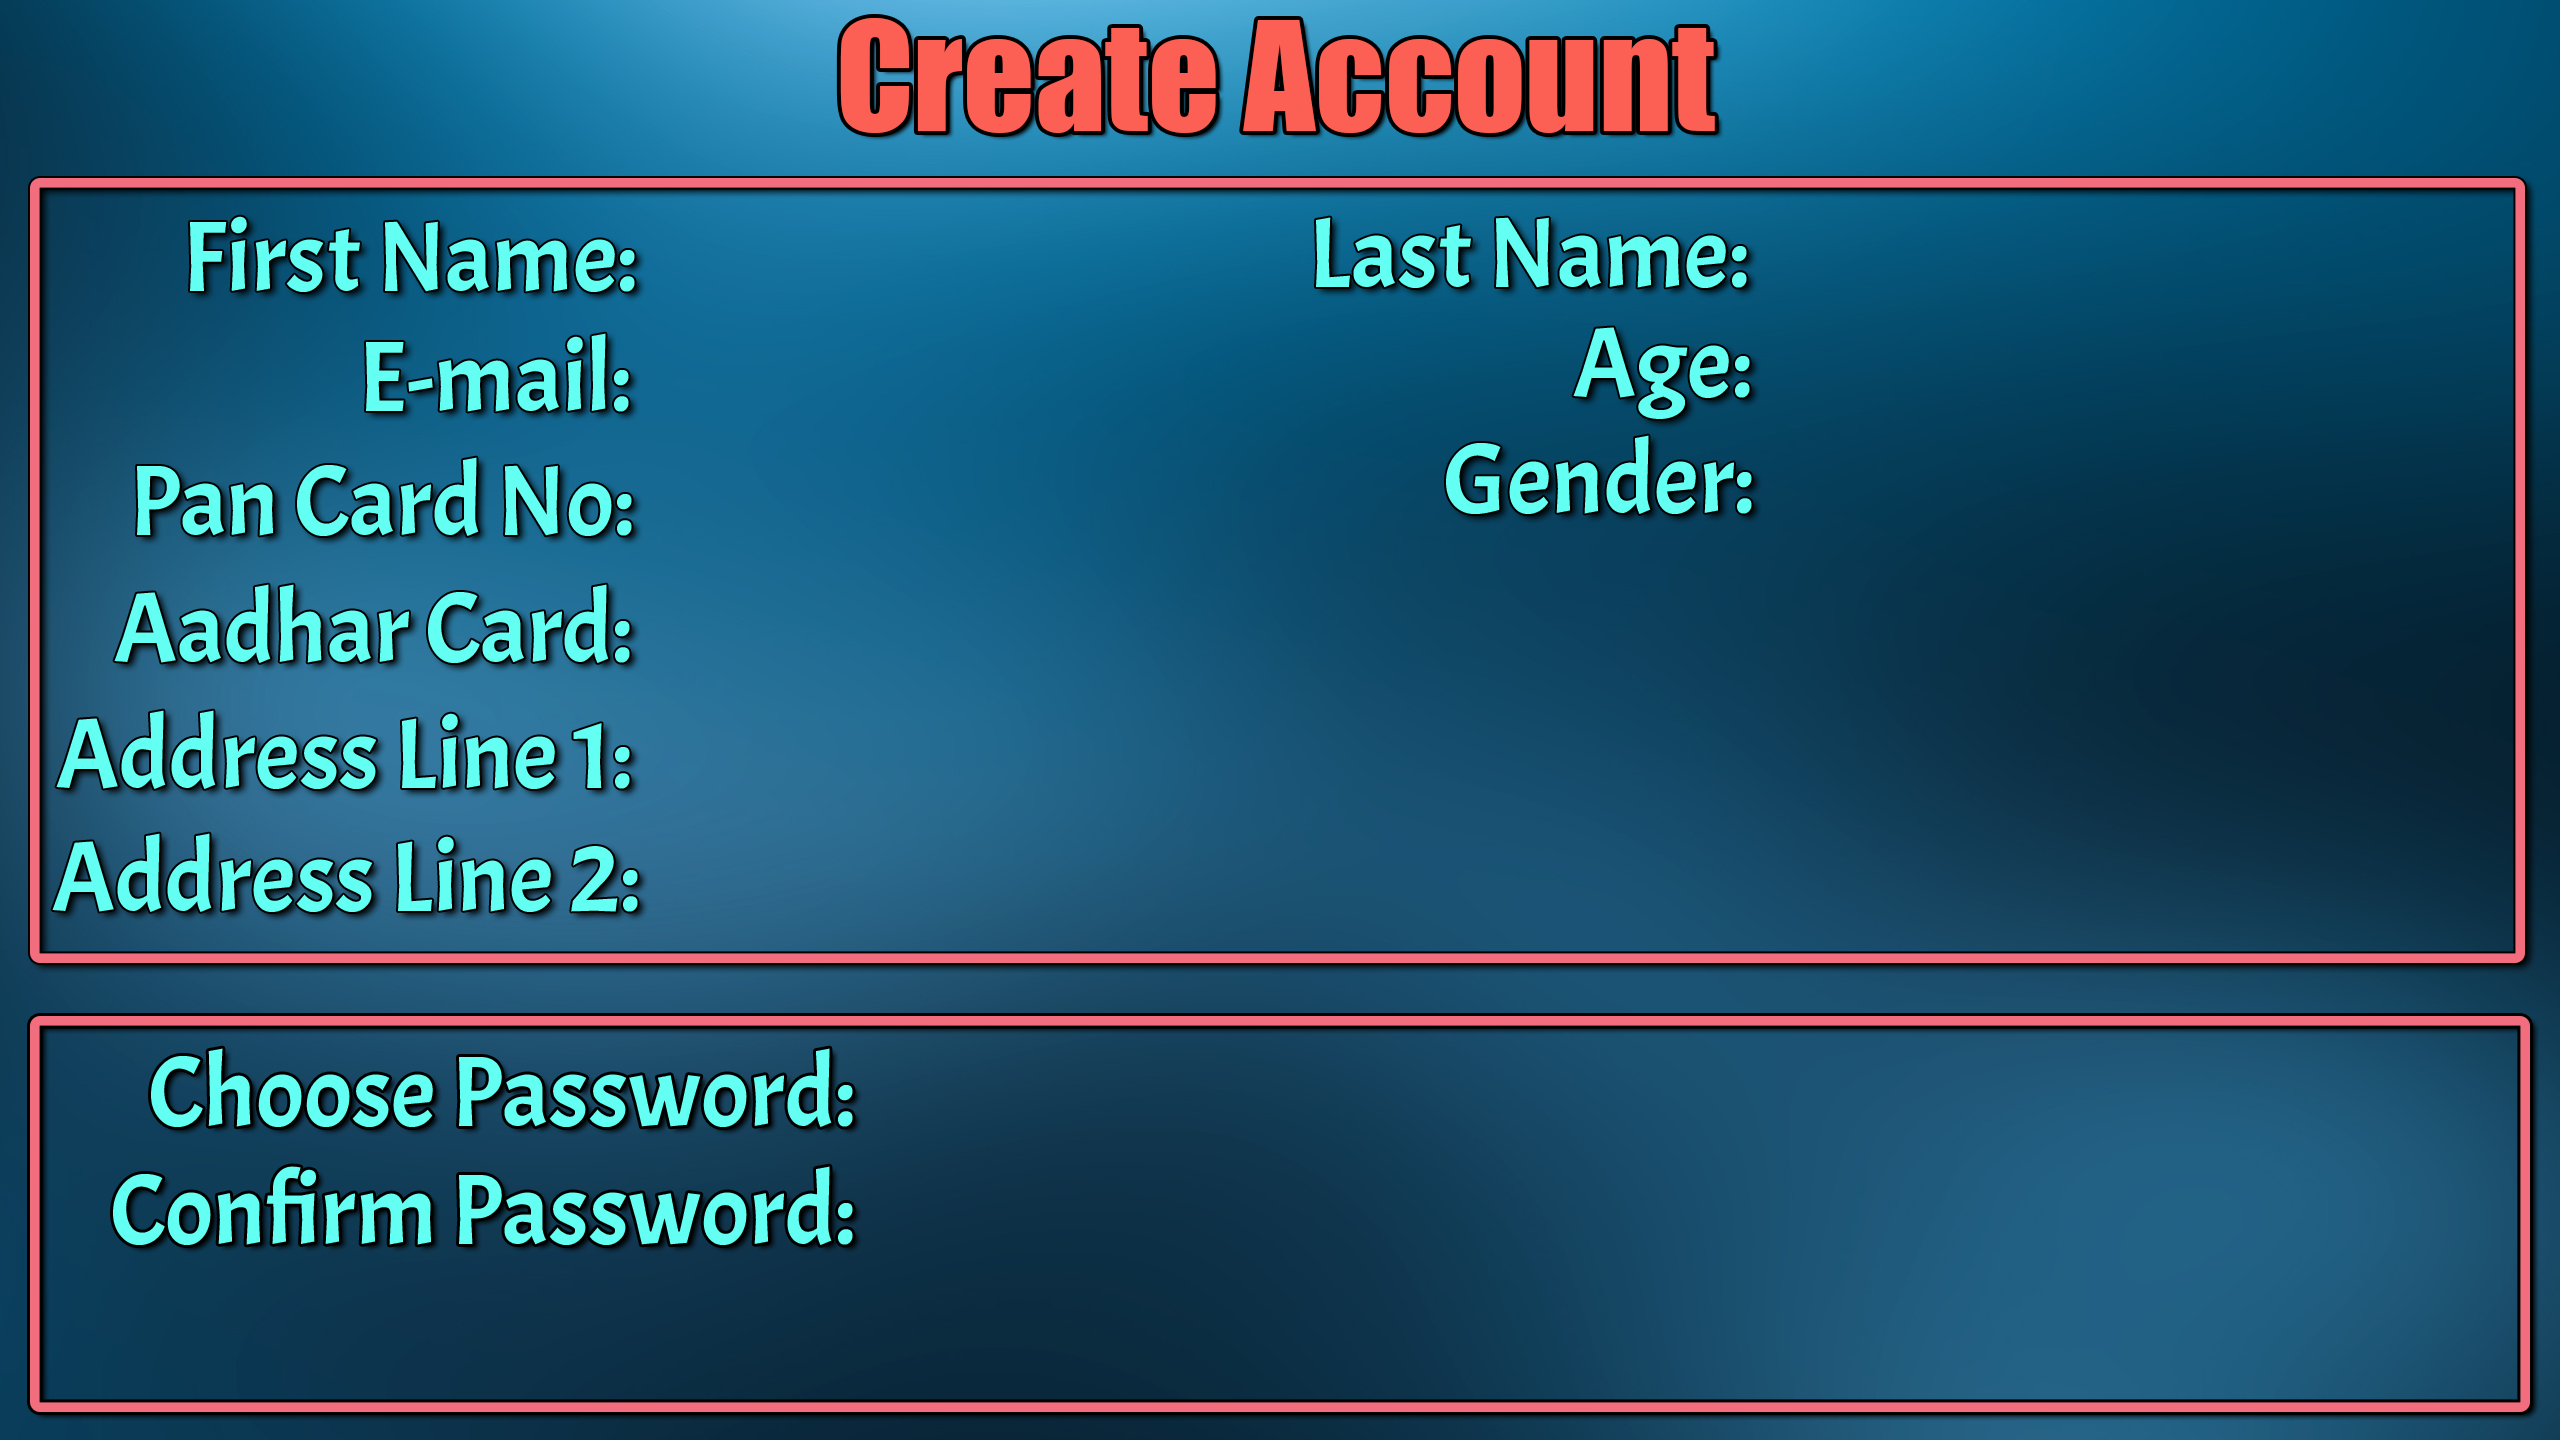
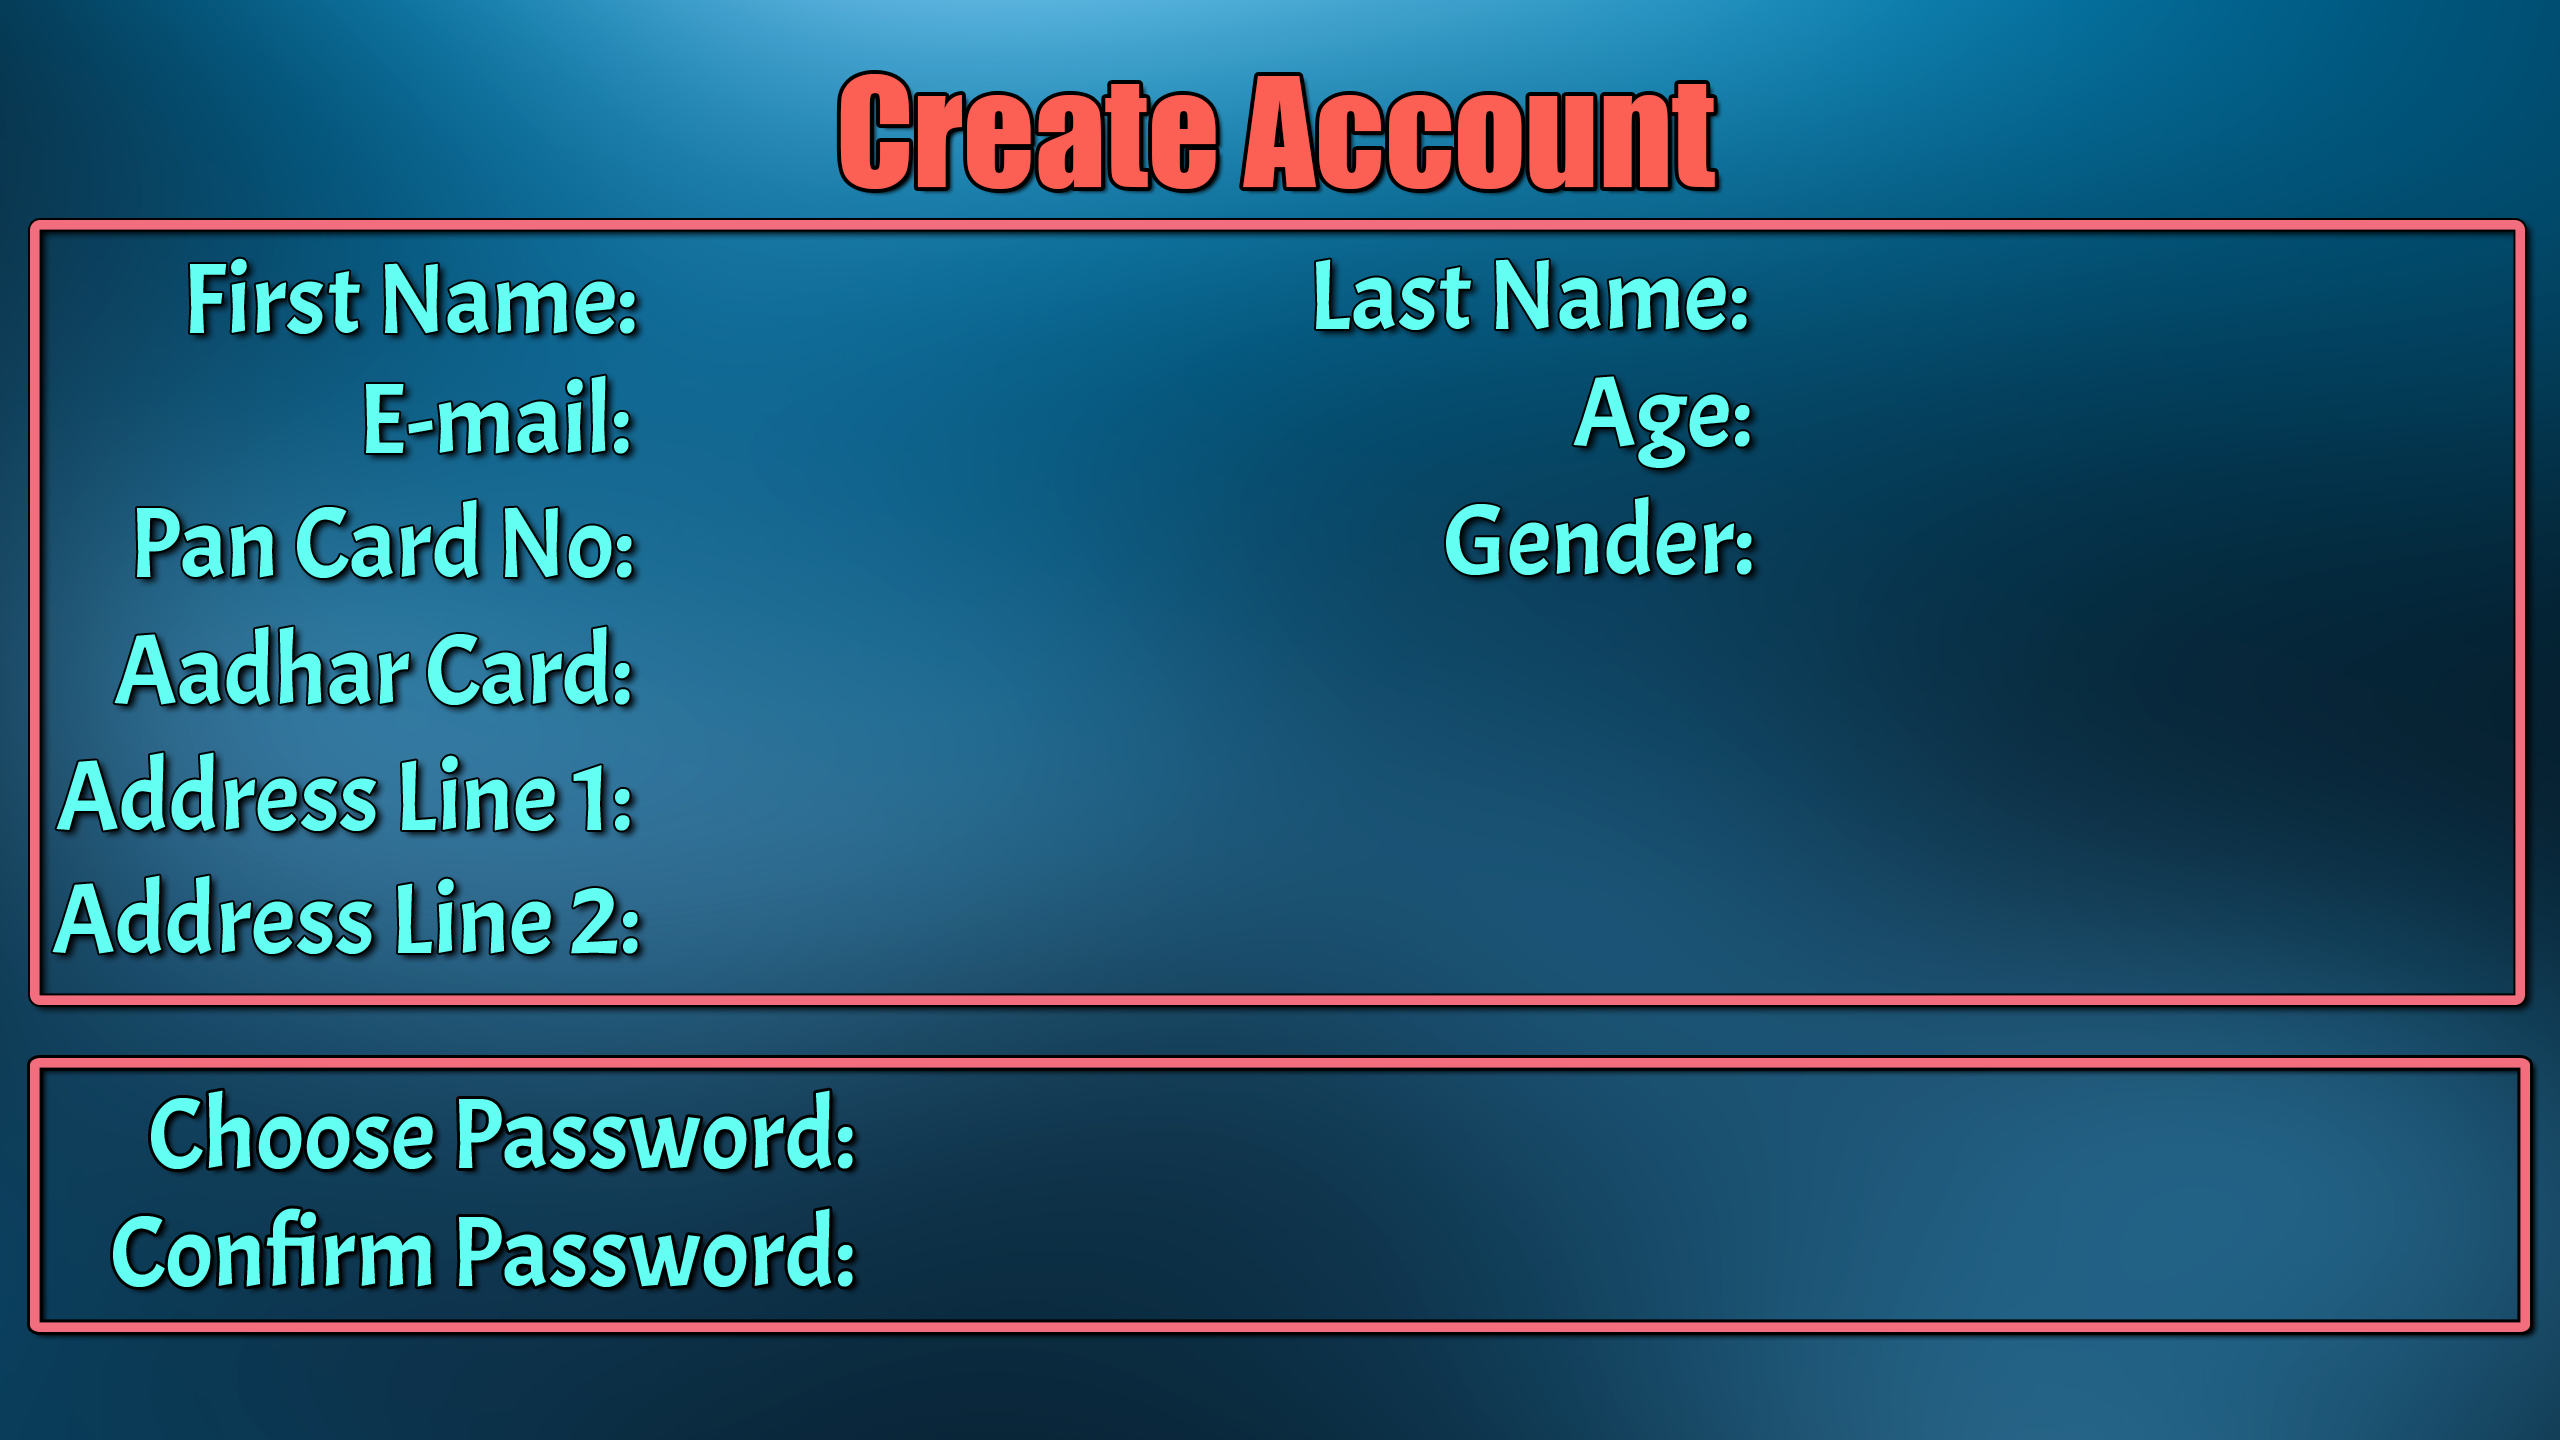
new bg create account

Changed region(s): [[0.0, 0.0, 1.0, 1.0]]

diff --git a/main.py b/main.py
@@ -40,7 +40,46 @@ def create_login():
     if not found:
         status.configure(text="Username doesn't exist!", fg="#FF0000")
 
-def create_acc():
+def submit_data():
+    login_field.place_forget()
+    password_field.place_forget()
+    submit_login.place_forget()
+    submit_create.place_forget()
+    status.place_forget()
+
+    dashbg = Image.open("data/images/create_account.png")
+    dashbg = dashbg.resize(root.wm_maxsize())
+    root.bgimg = ImageTk.PhotoImage(dashbg)
+    bg_canvas.itemconfig(root.rootbgimage, image=root.bgimg)
+
+    fname = Entry(root, width=x(20), font=("Helvetica", 22))
+    fname.place(x=x(400), y=y(164))
+    lname = Entry(root, width=x(20), font=("Helvetica", 22))
+    lname.place(x=x(1060), y=y(164))
+    email = Entry(root, width=x(25), font=("Helvetica", 22))
+    email.place(x=x(400), y=y(238))
+    age = Entry(root, width=x(5), font=("Helvetica", 22))
+    age.place(x=x(1060), y=y(238))
+    pan = Entry(root, width=x(25), font=("Helvetica", 22))
+    pan.place(x=x(400), y=y(312))
+    gender = Entry(root, width=x(5), font=("Helvetica", 22))
+    gender.place(x=x(1060), y=y(312))
+    aadhar = Entry(root, width=x(25), font=("Helvetica", 22))
+    aadhar.place(x=x(400), y=y(386))
+    add1 = Entry(root, width=x(30), font=("Helvetica", 22))
+    add1.place(x=x(400), y=y(460))
+    add2 = Entry(root, width=x(30), font=("Helvetica", 22))
+    add2.place(x=x(400), y=y(534))
+    pswd = Entry(root, width=x(25), font=("Helvetica", 22), show="*")
+    pswd.place(x=x(540), y=y(662))
+    cpswd = Entry(root, width=x(25), font=("Helvetica", 22), show="*")
+    cpswd.place(x=x(540), y=y(736))
+
+    final = Button(root, text="Open Account", font=("Arial", 22), width=x(14), bg="#37FF4E")
+    final.place(x=x(1030), y=y(690))
+    cancel = Button(root, text="Cancel", font=("Arial", 22), width=x(11), bg="#FF4E3F")
+    cancel.place(x=x(1290), y=y(690))
+    return
     usen = input('Pls enter a username: ')
     pas = input('Pls enter a password: ')
     email = input('Pls enter your email: ')
@@ -55,13 +94,6 @@ def create_acc():
     with open('data/accounts.json', 'w') as file:
         file.write(root.accountsdata)
 
-
-def submit_data():
-    login_field.place_forget()
-    password_field.place_forget()
-    submit_login.place_forget()
-    submit_create.place_forget()
-    status.place_forget()
 
 def restore_root():
     if root.fs:
@@ -148,12 +180,12 @@ with open("data/data.json", "r") as f:
     root.data = json.load(f)
 
 def withdraw():
-  userid = 867375658
-  var = root.data.get(userid)
-  print(var)
-  balance = var.get('balance')
-  withd = input('Please enter the amount you want to withdraw = ')
-  nam = balance - withd
+    userid = 867375658
+    var = root.data.get(userid)
+    print(var)
+    balance = var.get('balance')
+    withd = input('Please enter the amount you want to withdraw = ')
+    nam = balance - withd
 
 def deposit():
     userid = 867375658
@@ -163,9 +195,7 @@ def deposit():
     dep = input('Please enter the amount you want to deposit = ')
     nwd = balance + dep
 
-
 with open('data/data.json', 'w') as file:
     file.write(json.dumps(root.data,indent=2))
-
 
 root.mainloop()
